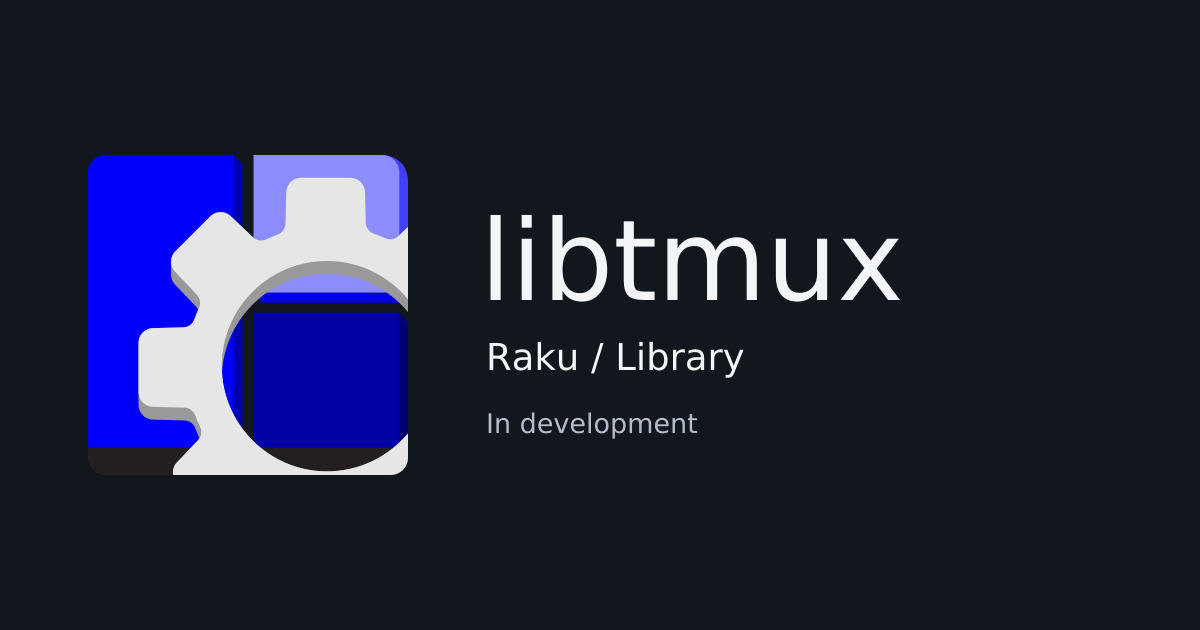
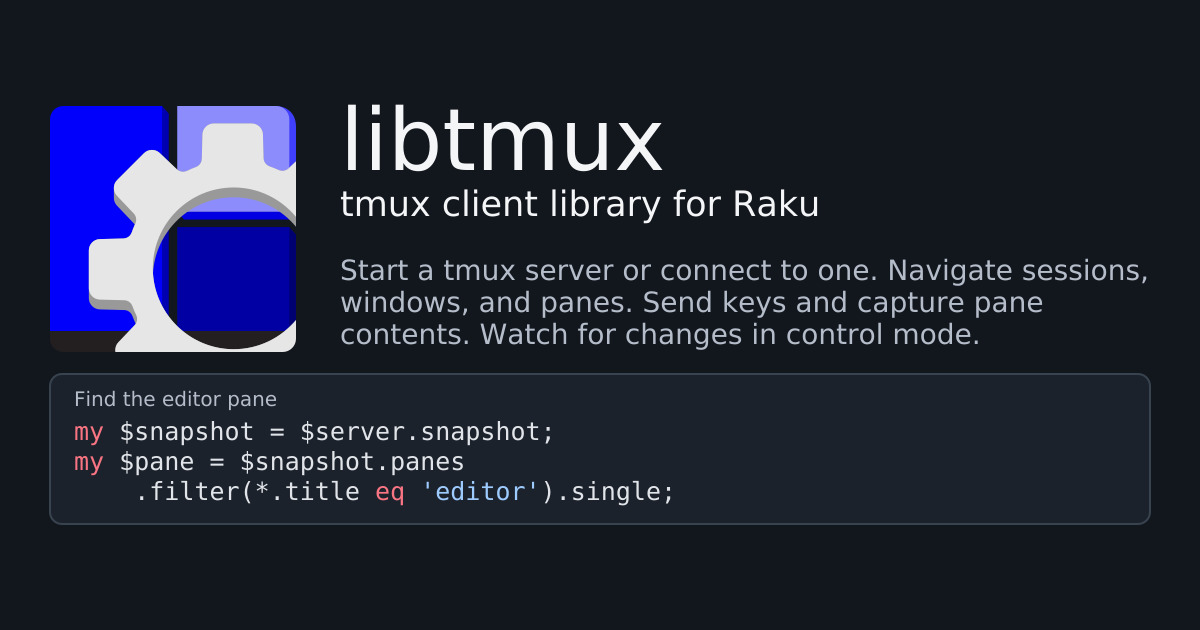
docs(site[branding]) Show verified native queries
why: Sharing images should demonstrate the implemented library APIs.

what:
- Refresh library sharing images for Perl, Raku, and Haskell
- Pin per-file source revisions and update the distributed catalog

Changed region(s): [[0.0308, 0.1508, 0.9558, 0.8444]]

diff --git a/notes/branding.md b/notes/branding.md
@@ -15,6 +15,12 @@ The library sharing cards use asset kit revision
 `4b86a9d9158d7c6d52cd635d59c92a04b48b960f`. Each card includes a native
 query excerpt. The GitHub preview uses the light Python library card.
 
+Perl, Raku, and Haskell library sharing cards use asset kit revision
+`a6377dd4fbfe0d5e59271ceefb21cb503646dbc0`. Their native examples were verified on
+private tmux servers. A file-level `revision` in each language's `source.json`
+overrides its default revision for refreshed exports; other files and manifest
+overrides retain their recorded sources.
+
 F#, Kotlin, and Scala declarations use their own palettes when the route
 names that package.
 
@@ -38,8 +44,8 @@ or claim that workspace/MCP consumers are implemented. Clojure's library
 card uses the facade in the Java repository.
 
 Perl includes the same three product sets, with Linguist's `#0298C3` primary
-and neutral reading surfaces. Its library cards describe the repository
-scaffold without an API example. Provenance is recorded in
+and neutral reading surfaces. Its library cards show a native session query.
+Provenance is recorded in
 [`perl/source.json`](../site/public/brand/perl/source.json).
 
 Raku uses the library set from assets revision
